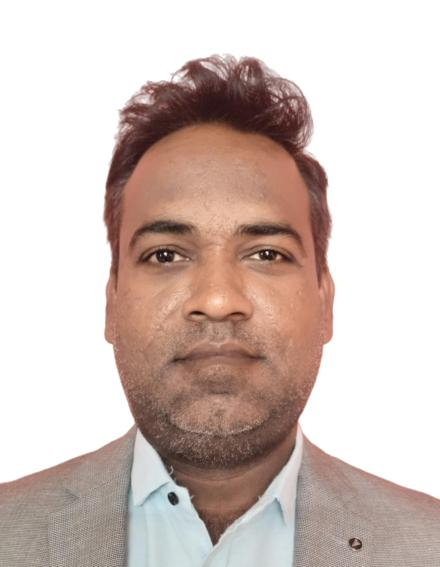
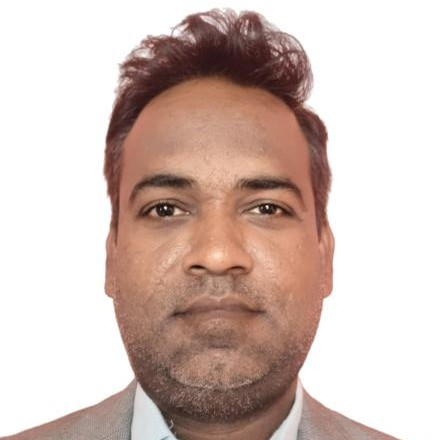
Rendering team images, uniformity maintained

diff --git a/team.html b/team.html
@@ -59,7 +59,7 @@
                 <div class="col-lg-4 col-md-6">
                     <div class="card p-4 h-100 shadow-sm">
                         <div class="d-flex justify-content-center">
-                            <img src="assets/img/team-images/Ram Harne.jpeg" class="team-member-img"
+                            <img src="assets/img/team-images/New folder/Ram Harne.jpeg" class="team-member-img"
                                 alt="Mr. Rameshwar Harne">
                         </div>
                         <div class="card-body p-0">
@@ -84,7 +84,7 @@
                 <div class="col-lg-4 col-md-6">
                     <div class="card p-4 h-100 shadow-sm">
                         <div class="d-flex justify-content-center">
-                            <img src="assets/img/team-images/Vireesh Tike.jpeg" class="team-member-img"
+                            <img src="assets/img/team-images/New folder/Vireesh Tike.jpeg" class="team-member-img"
                                 alt="Mr. Veeresh Tike">
                         </div>
                         <div class="card-body p-0">
@@ -115,7 +115,7 @@
                 <div class="col-lg-4 col-md-6">
                     <div class="card p-4 h-100 shadow-sm">
                         <div class="d-flex justify-content-center">
-                            <img src="assets/img/team-images/Suresh Iyer.jpg" class="team-member-img"
+                            <img src="assets/img/team-images/New folder/Suresh Iyer.jpg" class="team-member-img"
                                 alt="Mr. Suresh Iyer">
                         </div>
                         <div class="card-body p-0">
@@ -133,7 +133,7 @@
                 <div class="col-lg-4 col-md-6">
                     <div class="card p-4 h-100 shadow-sm">
                         <div class="d-flex justify-content-center">
-                            <img src="assets/img/team-images/S.N. Bhattacharya.jpeg" class="team-member-img"
+                            <img src="assets/img/team-images/New folder/S.N. Bhattacharya.jpeg" class="team-member-img"
                                 alt="Mr. S. N. Bhattacharya">
                         </div>
                         <div class="card-body p-0">
@@ -161,7 +161,7 @@
                 <div class="col-lg-4 col-md-6">
                     <div class="card p-4 h-100 shadow-sm">
                         <div class="d-flex justify-content-center">
-                            <img src="assets/img/team-images/Bhaskar Bichitkar.jpeg" class="team-member-img"
+                            <img src="assets/img/team-images/New folder/Bhaskar Bichitkar.jpeg" class="team-member-img"
                                 alt="Mr. Bhaskar Bichitkar">
                         </div>
                         <div class="card-body p-0">
@@ -173,9 +173,9 @@
                                 <strong>Expertise:</strong> Installation & Maintenance of LT Distribution System, 
                                 Electrical Design Assistance & Electrical Coordination of Commercial project, Electrical Safety Audit
                             </p>
-                            <div class="social-links mt-3">
+                            <!-- <div class="social-links mt-3">
                                 <a href="" class="text-secondary mx-2"><i class="bi bi-linkedin fs-4"></i></a>
-                            </div>
+                            </div> -->
                         </div>
                     </div>
                 </div>
@@ -183,7 +183,7 @@
                 <div class="col-lg-4 col-md-6">
                     <div class="card p-4 h-100 shadow-sm">
                         <div class="d-flex justify-content-center">
-                            <img src="assets/img/team-images/Aditya G Prabhu.jpeg" class="team-member-img"
+                            <img src="assets/img/team-images/New folder/Aditya G Prabhu.jpeg" class="team-member-img"
                                 alt="Mr. Aditya Prabhu">
                         </div>
                         <div class="card-body p-0">
@@ -194,9 +194,9 @@
                                 <strong>Work Exp:</strong> 5 years <br>
                                 <strong>Expertise:</strong> Energy and Sustainability strategies
                             </p>
-                            <div class="social-links mt-3">
+                            <!-- <div class="social-links mt-3">
                                 <a href="#" class="text-secondary mx-2"><i class="bi bi-linkedin fs-4"></i></a>
-                            </div>
+                            </div> -->
                         </div>
                     </div>
                 </div>
@@ -204,7 +204,7 @@
                 <div class="col-lg-4 col-md-6">
                     <div class="card p-4 h-100 shadow-sm">
                         <div class="d-flex justify-content-center">
-                            <img src="assets/img/team-images/Suyash pandit.jpg" class="team-member-img"
+                            <img src="assets/img/team-images/New folder/Suyash pandit.jpg" class="team-member-img"
                                 alt="Mr. Suyash ">
                         </div>
                         <div class="card-body p-0">
@@ -214,16 +214,16 @@
                                 Bachelors in Mechanical Engineering <br>
                                 <Strong>Experience: </Strong> AutoCAD, CATIA.
                             </p>
-                            <div class="social-links mt-3">
+                            <!-- <div class="social-links mt-3">
                                 <a href="#" class="text-secondary mx-2"><i class="bi bi-linkedin fs-4"></i></a>
-                            </div>
+                            </div> -->
                         </div>
                     </div>
                 </div>
                 <div class="col-lg-4 col-md-6">
                     <div class="card p-4 h-100 shadow-sm">
                         <div class="d-flex justify-content-center">
-                            <img src="assets/img/team-images/Shweta Mahamuni.png" class="team-member-img"
+                            <img src="assets/img/team-images/New folder/Shweta Mahamuni.png" class="team-member-img"
                                 alt="Ms. Shweta Mahamuni">
                         </div>
                         <div class="card-body p-0">
@@ -233,16 +233,16 @@
                                 M.Sc. in Computer Science, B.Sc. in Computer Science <br>
                                 <strong>Expertise: </strong> Energy Reports, MS Suite of Products.
                             </p>
-                            <div class="social-links mt-3">
+                            <!-- <div class="social-links mt-3">
                                 <a href="#" class="text-secondary mx-2"><i class="bi bi-linkedin fs-4"></i></a>
-                            </div>
+                            </div> -->
                         </div>
                     </div>
                 </div>
                 <div class="col-lg-4 col-md-6">
                     <div class="card p-4 h-100 shadow-sm">
                         <div class="d-flex justify-content-center">
-                            <img src="assets/img/team-images/Pooja Lokhande.jpg" class="team-member-img"
+                            <img src="assets/img/team-images/New folder/Pooja Lokhande.jpg" class="team-member-img"
                                 alt="Ms. Pooja Lokhande">
                         </div>
                         <div class="card-body p-0">
@@ -252,9 +252,9 @@
                                 Diploma in Electronics & Telecommunication Engineering<br>
                                 <strong>Expertise: </strong> Sales Management and Business Development
                             </p>
-                            <div class="social-links mt-3">
+                            <!-- <div class="social-links mt-3">
                                 <a href="#" class="text-secondary mx-2"><i class="bi bi-linkedin fs-4"></i></a>
-                            </div>
+                            </div> -->
                         </div>
                     </div>
                 </div>
@@ -289,7 +289,7 @@
                 <div class="col-lg-4 col-md-6">
                     <div class="card p-4 h-100 shadow-sm">
                         <div class="d-flex justify-content-center">
-                            <img src="assets/img/team-images/Prabir Chattoraj.jpeg" class="team-member-img"
+                            <img src="assets/img/team-images/New folder/Prabir Chattoraj.jpeg" class="team-member-img"
                                 alt="Mr. Prabir Chattoraj">
                         </div>
                         <div class="card-body p-0">
@@ -298,20 +298,20 @@
                             <p class="card-text text-muted">
                                B.Sc. in Chemical Engineering, PG (Industrial Management, 
                                <Strong>Accredited Energy Auditor (AEA-0090 - Govt. of India, 
-                               'Bureau of Energy Efficiency' Certified))</Strong><br>
+                               'Bureau of Energy Efficiency' Certified)</Strong>)<br>
                                <strong>Work Exp:</strong> 45+ years <br>
                                <Strong>Experience: </Strong> Refinery, Boiler and Steam Distribution Systems, HVAC Systems, Compressed Air Systems.
                             </p>
-                            <div class="social-links mt-3">
+                            <!-- <div class="social-links mt-3">
                                 <a href="" class="text-secondary mx-2"><i class="bi bi-linkedin fs-4"></i></a>
-                            </div>
+                            </div> -->
                         </div>
                     </div>
                 </div>
                 <div class="col-lg-4 col-md-6">
                     <div class="card p-4 h-100 shadow-sm">
                         <div class="d-flex justify-content-center">
-                            <img src="assets/img/team-images/Shrinivas Sharma.jpg" class="team-member-img"
+                            <img src="assets/img/team-images/New folder/Shrinivas Sharma.jpg" class="team-member-img"
                                 alt="Mr. Shrinivas Sharma">
                         </div>
                         <div class="card-body p-0">
@@ -329,7 +329,7 @@
                 <div class="col-lg-4 col-md-6">
                     <div class="card p-4 h-100 shadow-sm">
                         <div class="d-flex justify-content-center">
-                            <img src="assets/img/team-images/Devendra Ware.jpg" class="team-member-img"
+                            <img src="assets/img/team-images/New folder/Devendra Ware.jpg" class="team-member-img"
                                 alt="Mr. Devendra Ware">
                         </div>
                         <div class="card-body p-0">
@@ -348,7 +348,7 @@
                 <div class="col-lg-4 col-md-6">
                     <div class="card p-4 h-100 shadow-sm">
                         <div class="d-flex justify-content-center">
-                            <img src="assets/img/team-images/Vinod Shukla.jpeg" class="team-member-img"
+                            <img src="assets/img/team-images/New folder/Vinod Shukla.jpeg" class="team-member-img"
                                 alt="Mr. Vinod Shukla">
                         </div>
                         <div class="card-body p-0">
@@ -366,7 +366,7 @@
                 <div class="col-lg-4 col-md-6">
                     <div class="card p-4 h-100 shadow-sm">
                         <div class="d-flex justify-content-center">
-                            <img src="assets/img/team-images/Dibyendu Datta.jpg" class="team-member-img"
+                            <img src="assets/img/team-images/New folder/Dibyendu Datta.jpg" class="team-member-img"
                                 alt="Mr. Dibyendu Datta">
                         </div>
                         <div class="card-body p-0">

diff --git a/index.html b/index.html
@@ -139,7 +139,7 @@
             <!-- Team Grid -->
             <div class="row g-4 justify-content-center">
                 <!-- Team Member 1 -->
-                <div class="col-sm-6 col-md-4 col-lg-3">
+                <div class="col-lg-4 col-md-6">
                     <div class="card h-100 shadow-sm text-center p-3 d-flex">
                         <img src="assets/img//team-images/C S Shankar.JPG" class="team-member-img"
                             alt="Member 1">
@@ -155,9 +155,9 @@
                     </div>
                 </div>
                 <!-- Team Member 2 -->
-                <div class="col-sm-6 col-md-4 col-lg-3">
+                <div class="col-lg-4 col-md-6">
                     <div class="card h-100 shadow-sm text-center p-3 d-flex">
-                        <img src="assets/img/team-images/Rameshwar Harne.jpg" class="team-member-img"
+                        <img src="assets/img/team-images/New folder/Ram Harne.jpeg" class="team-member-img"
                             alt="Member 2">
                         <h5 class="fw-bold mb-1">Mr. Rameshwar Harne</h5>
                         <h6 class="text-muted mb-0">Technical Director</h6>
@@ -173,9 +173,9 @@
                     </div>
                 </div>
                 <!-- Team Member 3 -->
-                <div class="col-sm-6 col-md-4 col-lg-3">
+                <div class="col-lg-4 col-md-6">
                     <div class="card h-100 shadow-sm text-center p-3 d-flex">
-                        <img src="assets/img/team-images/Veeresh Tike.jpg" class="team-member-img"
+                        <img src="assets/img/team-images/New folder/Vireesh Tike.jpeg" class="team-member-img"
                             alt="Member 3">
                         <h5 class="fw-bold mb-1">Mr. Veeresh Tike</h5>
                         <h6 class="text-muted mb-0">Technical Director</h6>

diff --git a/assets/css/style.css b/assets/css/style.css
@@ -141,14 +141,6 @@ body.scrolled .navbar {
     box-shadow: 0 1rem 2rem rgba(0, 0, 0, 0.15);
 }
 
-.team-section .card img {
-    transition: transform 0.3s;
-}
-
-.team-section .card img:hover {
-    transform: scale(1.05);
-}
-
 .clients-section h5 {
     transition: transform 0.3s, color 0.3s;
 }
@@ -424,18 +416,25 @@ ul li:hover svg {
     font-size: 3.5rem;
 }
 
+.team-section .card img {
+    transition: transform 0.3s;
+}
+
+.team-section .card img:hover {
+    transform: scale(1.05);
+}
+
 .team-section .team-member-img {
     width: 150px;
     height: 150px;
-    object-fit: cover;
-    object-position: center top; 
-    margin: 0 auto 15px; 
-    /* display: block; */
-    margin-bottom: 15px;
     border-radius: 50%;
-    /* border: 5px solid #fff; */
-    box-shadow: 0 0 10px rgba(0, 0, 0, 0.1);
-    
+    object-fit: cover;
+    object-position: center; 
+    image-rendering: auto;
+    background-color: #f0f0f0;
+    box-shadow: 0 4px 10px rgba(0,0,0,0.12);
+    display: block;
+    margin: 0 auto 15px;
 }
 
 .team-section .card {
@@ -454,28 +453,23 @@ ul li:hover svg {
 
 .team-section .card-title {
     color: #1b3710;
-    /* Darker Green */
     font-weight: 700;
 }
 
 .team-section .card-subtitle {
     color: #3b850d;
-    /* Eco Green */
     font-weight: 500;
     margin-bottom: 10px;
 }
 
-/* Social Icons */
 .team-section .social-links a {
     color: #6c757d;
-    /* Muted color */
     transition: color 0.3s;
 }
 
 .team-section .social-links a:hover {
     color: #3b850d;
-    /* Eco Green on hover */
-}
+} 
 
 /* --- NEW STYLES FOR ABOUT.HTML --- */
 
